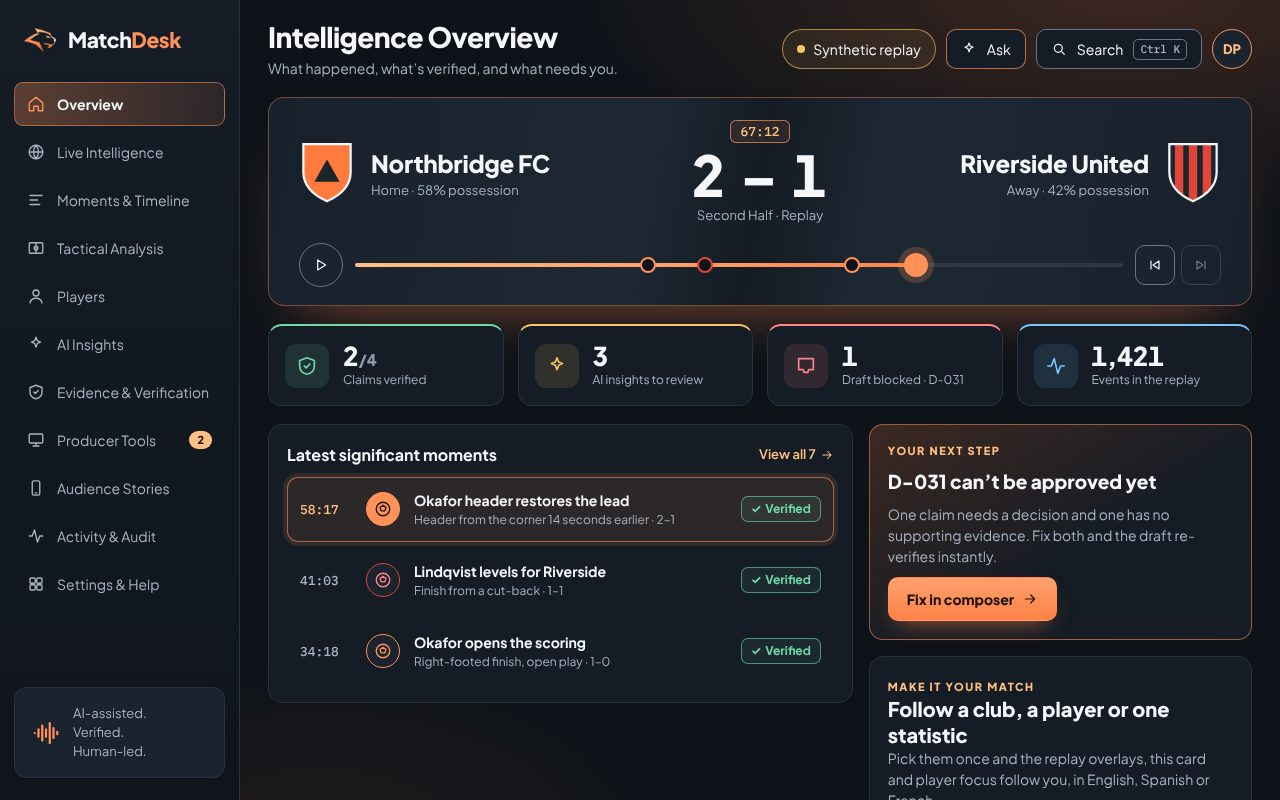
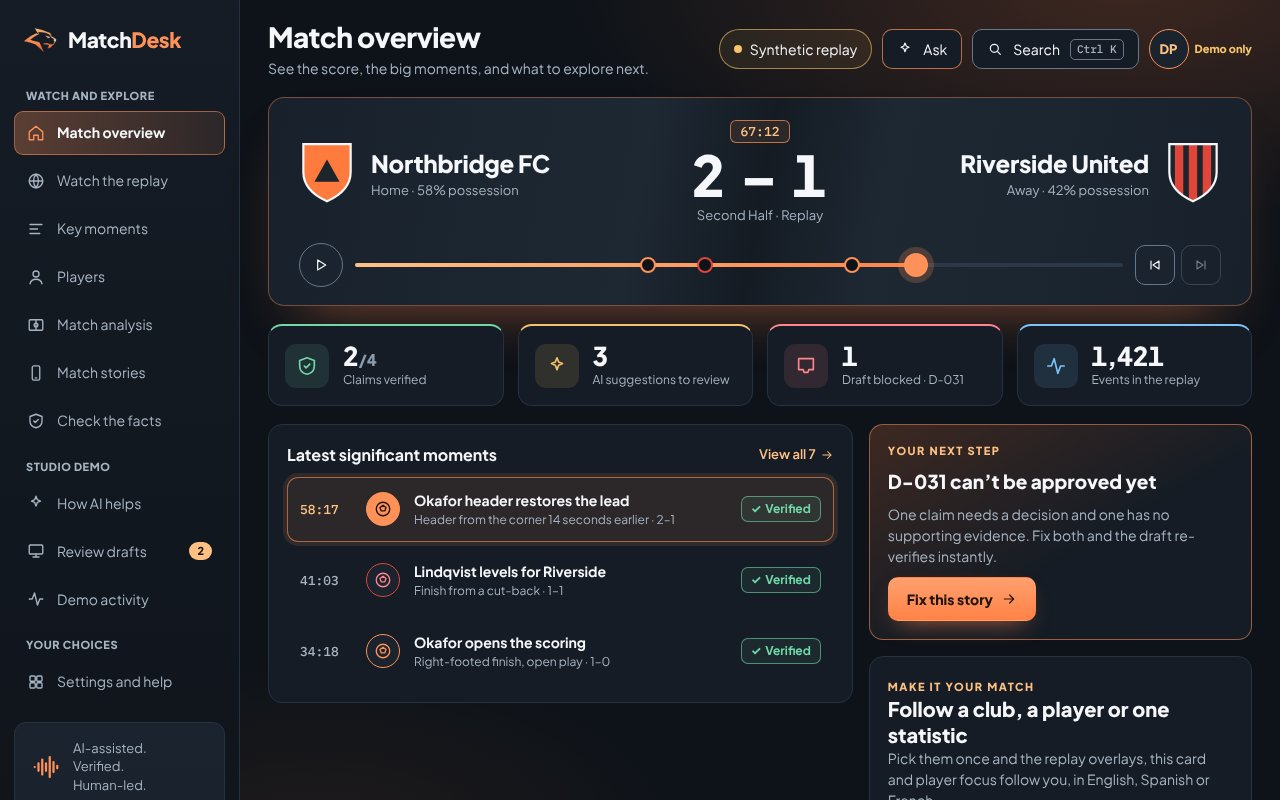
README: put the Azure demo link up front and refresh stale screenshots
The live Azure demo is linked in the summary table and at the start of
"Try it in three minutes". The overview and benchmark screenshots now
show the plain-language navigation, and the timeline records 25 October.

diff --git a/README.md b/README.md
@@ -6,7 +6,7 @@
 
 | | |
 | --- | --- |
-| **Live demo** | https://mdesk-web.icybeach-62467e8a.uksouth.azurecontainerapps.io (Azure Container Apps: the studio, the API, the live stream, live agent runs, MCP and voice-over) |
+| **Live demo (Azure)** | **[mdesk-web.icybeach-62467e8a.uksouth.azurecontainerapps.io](https://mdesk-web.icybeach-62467e8a.uksouth.azurecontainerapps.io)** · Azure Container Apps: the studio, the API, the live stream, live agent runs, MCP and voice-over |
 | **Video** | _Added with the submission_ |
 | **Judges, start here** | [Judging guide](docs/competition/judging-guide.md) · [Pitch](docs/competition/pitch.md) · [Documentation map](docs/README.md) |
 
@@ -37,7 +37,7 @@ every sentence, against the event log before anything is shown. Only a human pro
 approve and publish. The result is personalised for each viewer (club, player, focus statistic;
 fan, analyst or caption style; English, Spanish or French) and can be read aloud.
 
-![Intelligence overview: the score, verified moments and the producer's next step](docs/images/overview.jpg)
+![Match overview: the score, verified moments and the next step](docs/images/overview.jpg)
 
 ### Choose what you want to explore
 
@@ -49,6 +49,8 @@ No real producer account is signed in, and the public demo does not publish to l
 
 ## 2. Try it in three minutes
 
+Open the **[live demo on Azure](https://mdesk-web.icybeach-62467e8a.uksouth.azurecontainerapps.io)** and press **Start the 3-minute guided demo**, or follow these steps.
+
 1. **Match overview › Can you trick the fact checker?** Claim 59% possession; the log says 57.96% and the
    claim is rejected. Then open the [benchmark](docs/evidence/verifier-benchmark-20261024.md):
    810 false claims, all caught.
@@ -57,7 +59,7 @@ No real producer account is signed in, and the public demo does not publish to l
    caption style, turn on **Read overlays aloud**, or open the **broadcast overlay** that OBS or
    vMix can load.
 3. **How AI helps › Run it live now.** Four agents on Microsoft Foundry. Watch the verifier send a
-   claim back and the composer revise it (one live run every five minutes; a recorded run is
+   claim back and the Narrative Composer revise it (one live run every five minutes; a recorded run is
    always available).
 4. **Match stories.** A fan story for every goal and an automated half-time recap, every
    figure verified, with **Listen** in three languages.
@@ -156,6 +158,7 @@ The [solution design](docs/solution-design/02-architecture.md) explains each tru
 | 21–22 Oct | **Competition build.** Guided tour, "try to fool the verifier", composer, Ask MatchDesk, recorded live Foundry runs | [Build record](docs/evidence/competition-build-20261022.md) |
 | 23 Oct | **Azure and live features.** Container Apps deployment, live stream, Application Insights, fan stories, automated recaps, MCP, tracking metrics, cards and substitutions, demo approval, auto-eventing lab, Spanish and French review | [Azure deployment](docs/evidence/azure-deployment-20261023.md), [Live checks](docs/evidence/release-live-checks-20261023.md), [Language review](docs/evidence/language-review-es-fr-20261023.md) |
 | 24 Oct | **Proof and reach.** Verifier benchmark, broadcast overlay, voice-over, documentation overhaul | [Benchmark](docs/evidence/verifier-benchmark-20261024.md) |
+| 25 Oct | **Plain-language navigation.** One set of plain screen names, clearly labelled demo actions, phone header fix; feature freeze | [Navigation note](docs/ux/plain-language-navigation.md) |
 
 ## 5. By the numbers
 
